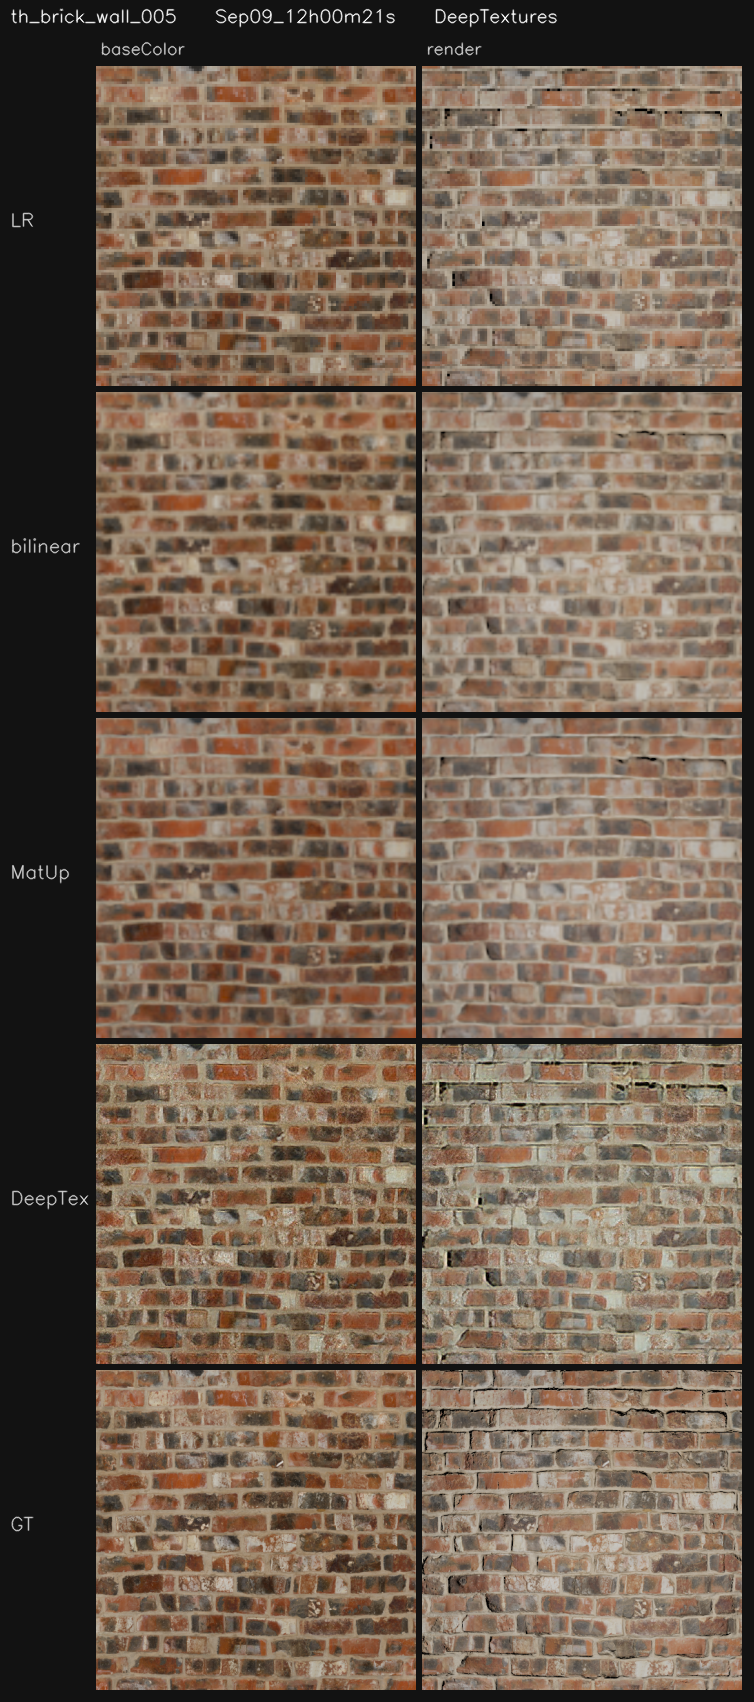
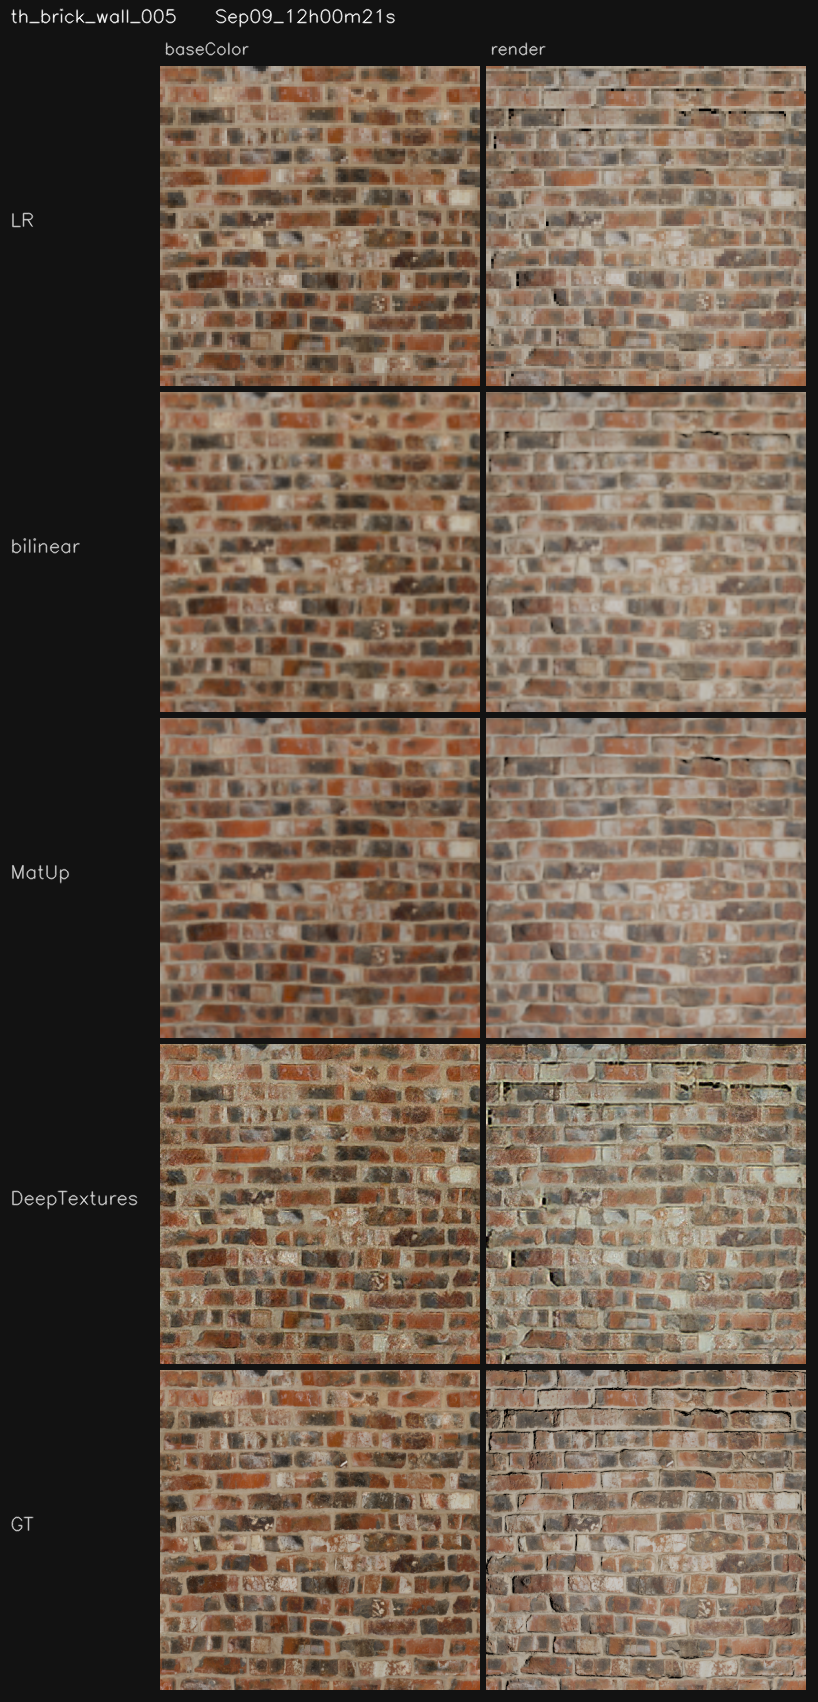
Label the sheets with the paper's method name, not internal arm names
"upstream" and "ours" are names for which tiling implementation ran. They say
nothing to a reader, and "ours" actively hides that BOTH arms are the paper's
method running the paper's checkpoint - only the join differs. The tiling sheets
now read "DeepTextures - paper tiling" and "DeepTextures - overlap tiling", and
the label shrinks to fit rather than overflowing its cell.

The comparison montage row becomes DeepTextures rather than the DeepTex
abbreviation. That string is 129px where the default gutter leaves 82px of
usable width, so the DeepTex sheet takes a wider gutter instead of a smaller
font than its sibling rows - build() now takes `left`, and LEFT is unchanged for
the 4x6 montage. Re-verified: all 12 runs/montages/*.png are still byte-identical
to 2582c86.

diff --git a/scripts/compare/matup_montage.py b/scripts/compare/matup_montage.py
@@ -54,7 +54,11 @@ ROWS = [("LR", "lr"), ("bilinear", "bilinear"), ("MatUp", "matup"), ("GT", "gt")
 # for why it is not a fifth row above.
 DEEPTEX_COLUMNS = ["baseColor", "render"]
 DEEPTEX_ROWS = [("LR", "lr"), ("bilinear", "bilinear"), ("MatUp", "matup"),
-                ("DeepTex", "deeptex"), ("GT", "gt")]
+                ("DeepTextures", "deeptex"), ("GT", "gt")]
+# "DeepTextures" is 129px at the row-label size and the default gutter is 82px of
+# usable width, so this sheet gets a wider one rather than a smaller font than its
+# sibling rows. Only this sheet: LEFT stays put, so montage.png is unchanged.
+DEEPTEX_LEFT = 160
 
 PAD = 6
 LEFT = 96
@@ -89,7 +93,7 @@ def placeholder(size, note):
     return cell
 
 
-def build(mat_dir, cmp_dir, size, columns, rows, suffix=""):
+def build(mat_dir, cmp_dir, size, columns, rows, suffix="", left=LEFT):
     """Draw one contact sheet for the given grid.
 
     `run_dir` used to be a parameter and was never read - process() still
@@ -114,9 +118,9 @@ def build(mat_dir, cmp_dir, size, columns, rows, suffix=""):
     for col in columns:
         # Overwrite the render note too: "run matup_render.py" is the wrong advice
         # for this row - nothing MatUp does will ever fill it.
-        notes[("DeepTex", col)] = ["run", "deeptex_compare.py"]
+        notes[("DeepTextures", col)] = ["run", "deeptex_compare.py"]
 
-    w = LEFT + len(columns) * (size + PAD) + PAD
+    w = left + len(columns) * (size + PAD) + PAD
     h = TITLE + HEAD + len(rows) * (size + PAD) + PAD
     sheet = np.full((h, w, 3), 18, np.uint8)
 
@@ -124,7 +128,7 @@ def build(mat_dir, cmp_dir, size, columns, rows, suffix=""):
                 (255, 255, 255), 1, cv2.LINE_AA)
 
     for c, col in enumerate(columns):
-        x = LEFT + c * (size + PAD)
+        x = left + c * (size + PAD)
         cv2.putText(sheet, col, (x + 4, TITLE + 22), FONT, 0.55,
                     (210, 210, 210), 1, cv2.LINE_AA)
 
@@ -133,7 +137,7 @@ def build(mat_dir, cmp_dir, size, columns, rows, suffix=""):
         cv2.putText(sheet, row, (10, y + size // 2), FONT, 0.62,
                     (210, 210, 210), 1, cv2.LINE_AA)
         for c, col in enumerate(columns):
-            x = LEFT + c * (size + PAD)
+            x = left + c * (size + PAD)
             arr = cells.get((row, col))
             cell = to_display(arr, size)
             if cell is None:
@@ -172,7 +176,8 @@ def process(mat_dir, args):
     if any(os.path.exists(os.path.join(cmp_dir, c, "deeptex.png"))
            for c in DEEPTEX_COLUMNS):
         dsheet, _, _ = build(mat_dir, cmp_dir, args.size,
-                             DEEPTEX_COLUMNS, DEEPTEX_ROWS, "    DeepTextures")
+                             DEEPTEX_COLUMNS, DEEPTEX_ROWS, "",
+                             left=DEEPTEX_LEFT)
         dout = os.path.join(cmp_dir, "montage_deeptex.png")
         if not cv2.imwrite(dout, dsheet):
             raise SystemExit("cv2.imwrite failed for " + dout)

diff --git a/scripts/deeptex/deeptex_tiling_report.py b/scripts/deeptex/deeptex_tiling_report.py
@@ -65,6 +65,17 @@ import texsr_metrics  # noqa: E402
 
 TILE = 512  # split_large_image's hardcoded grid (modules/utils.py:376-395)
 
+# What goes ON the image. `upstream` and `ours` are internal names for which
+# tiling implementation ran - they say nothing to a reader, and "ours" hides that
+# BOTH arms are the paper's method with the paper's checkpoint. Only the join
+# differs, so the label says that. ASCII only: cv2's Hershey fonts have no Hangul.
+DISPLAY = {
+    "bicubic":  "Bicubic",
+    "upstream": "DeepTextures - paper tiling",
+    "ours":     "DeepTextures - overlap tiling",
+    "GT":       "Ground truth",
+}
+
 
 def read(path):
     a = cv2.imread(path, cv2.IMREAD_UNCHANGED)
@@ -108,7 +119,10 @@ def seam_ratio(img, tile=TILE):
 def label(img, text, size):
     cell = cv2.resize(img, (size, size), interpolation=cv2.INTER_AREA)
     cv2.rectangle(cell, (0, 0), (size, 22), (18, 18, 18), -1)
-    cv2.putText(cell, text, (6, 16), cv2.FONT_HERSHEY_SIMPLEX, 0.45,
+    scale = 0.45
+    while cv2.getTextSize(text, cv2.FONT_HERSHEY_SIMPLEX, scale, 1)[0][0] > size - 12             and scale > 0.28:
+        scale -= 0.02
+    cv2.putText(cell, text, (6, 16), cv2.FONT_HERSHEY_SIMPLEX, scale,
                 (235, 235, 235), 1, cv2.LINE_AA)
     return cell
 
@@ -167,7 +181,7 @@ def main():
         report["materials"][stem] = entry
 
         order = ["bicubic", "upstream", "ours", "GT"]
-        cells = [label(imgs[k], k, args.cell) for k in order if k in imgs]
+        cells = [label(imgs[k], DISPLAY[k], args.cell) for k in order if k in imgs]
         cv2.imwrite(os.path.join(args.out, "sheet_%s.png" % stem), np.hstack(cells))
 
         # A close-up straddling the first interior boundary, upstream vs GT.
@@ -177,7 +191,7 @@ def main():
             crop = lambda im: im[y0:y0 + 192, b - half:b + half]
             zoom = lambda im: cv2.resize(crop(im), (args.cell, args.cell),
                                          interpolation=cv2.INTER_NEAREST)
-            pair = [label(zoom(imgs[k]), "%s  x=%d" % (k, b), args.cell)
+            pair = [label(zoom(imgs[k]), "%s   x=%d" % (DISPLAY[k], b), args.cell)
                     for k in ("upstream", "ours", "GT") if k in imgs]
             cv2.imwrite(os.path.join(args.out, "seam_%s.png" % stem), np.hstack(pair))
 
